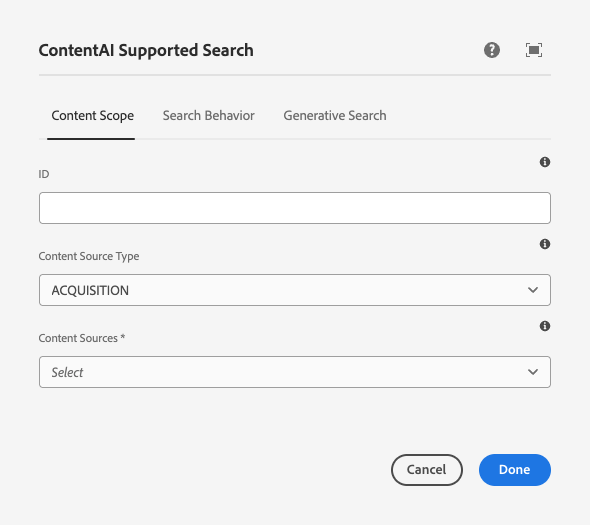
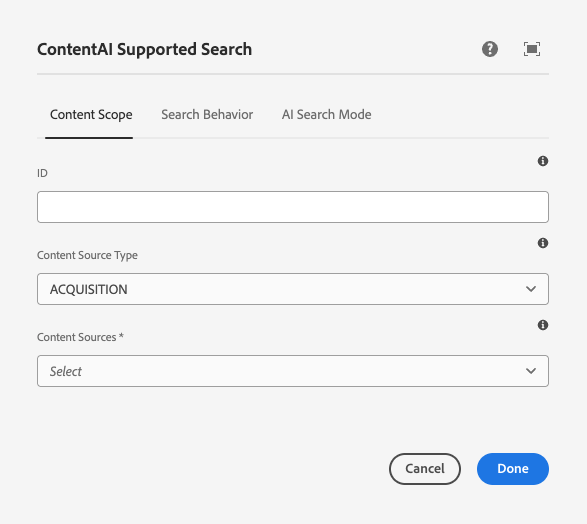
CQDOC-24078 updates screenshots of v2 of content ai search component

diff --git a/help/components/ai-search.md b/help/components/ai-search.md
@@ -98,13 +98,13 @@ The edit dialog allows the content author to define the content scope of hte sea
 
 ### Generative Search Tab {#generative-search}
 
-![Generative Search tab of the edit dialog](/help/assets/content-ai-search-edit-generative-search.png)
+![Generative Search tab of the edit dialog](/help/assets/content-ai-search-edit-ai-search-mode.png)
 
-* **Show generative summary toggle to visitors** - When unchecked, visitors can not change whether the AI summary is shown.
+* **Show AI Mode tab to visitors** - When unchecked, no tab bar is shown and the generative search API is never called.
+  * Visitors only see a plain search results view.
   * The default value is enabled.
-* **Show generative summary by default** - This option controls the default state of the visitor-facing toggle for the AI-generated summary.
+* **Show retry button when AI answer fails** - The AI Mode tab always shows an error message on failure; this option controls only if a retry button is shown alongside it.
   * The default value is enabled.
-* **GenSearch Error Fallback** - Defines how the search should behave or error.
-  * **Results only (hide error)** - If there is an error, show only the results that were returned, not the error and no retry button. This is the default value.
-  * **Show error with retry** - If there is an error, show the error with a retry button.
-  * **Show error message only** - If there is an error, show only the error message, no results.
+* **Disclaimer Text** - This text is shown below the generative summary on the AI Mode tab.
+  * Leave empty (default) to use the default disclaimer.
+  
